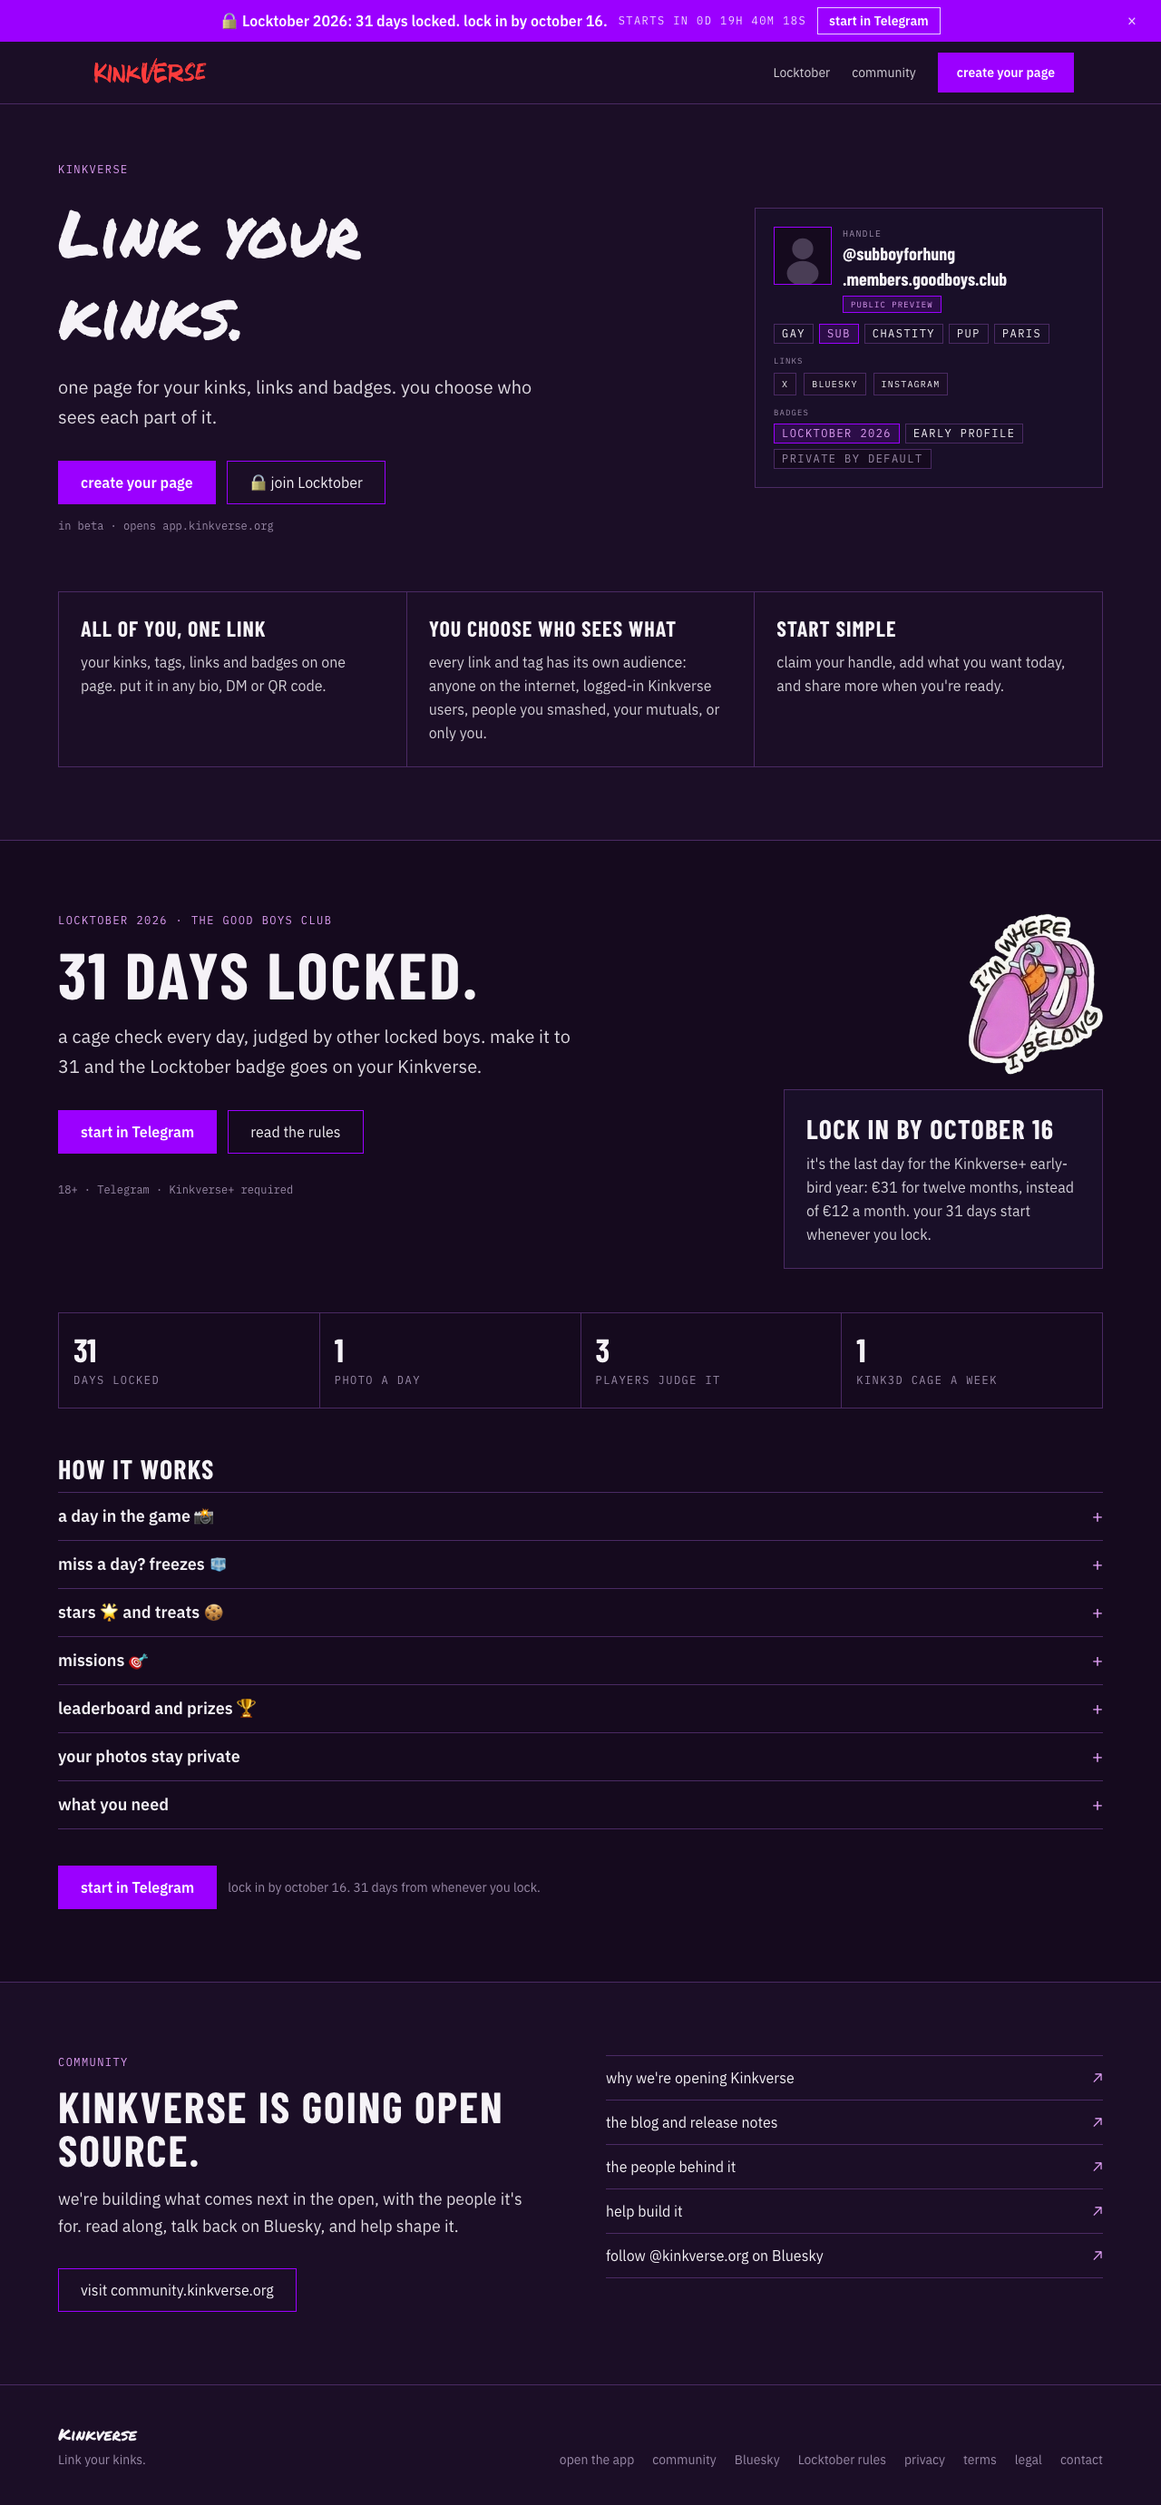
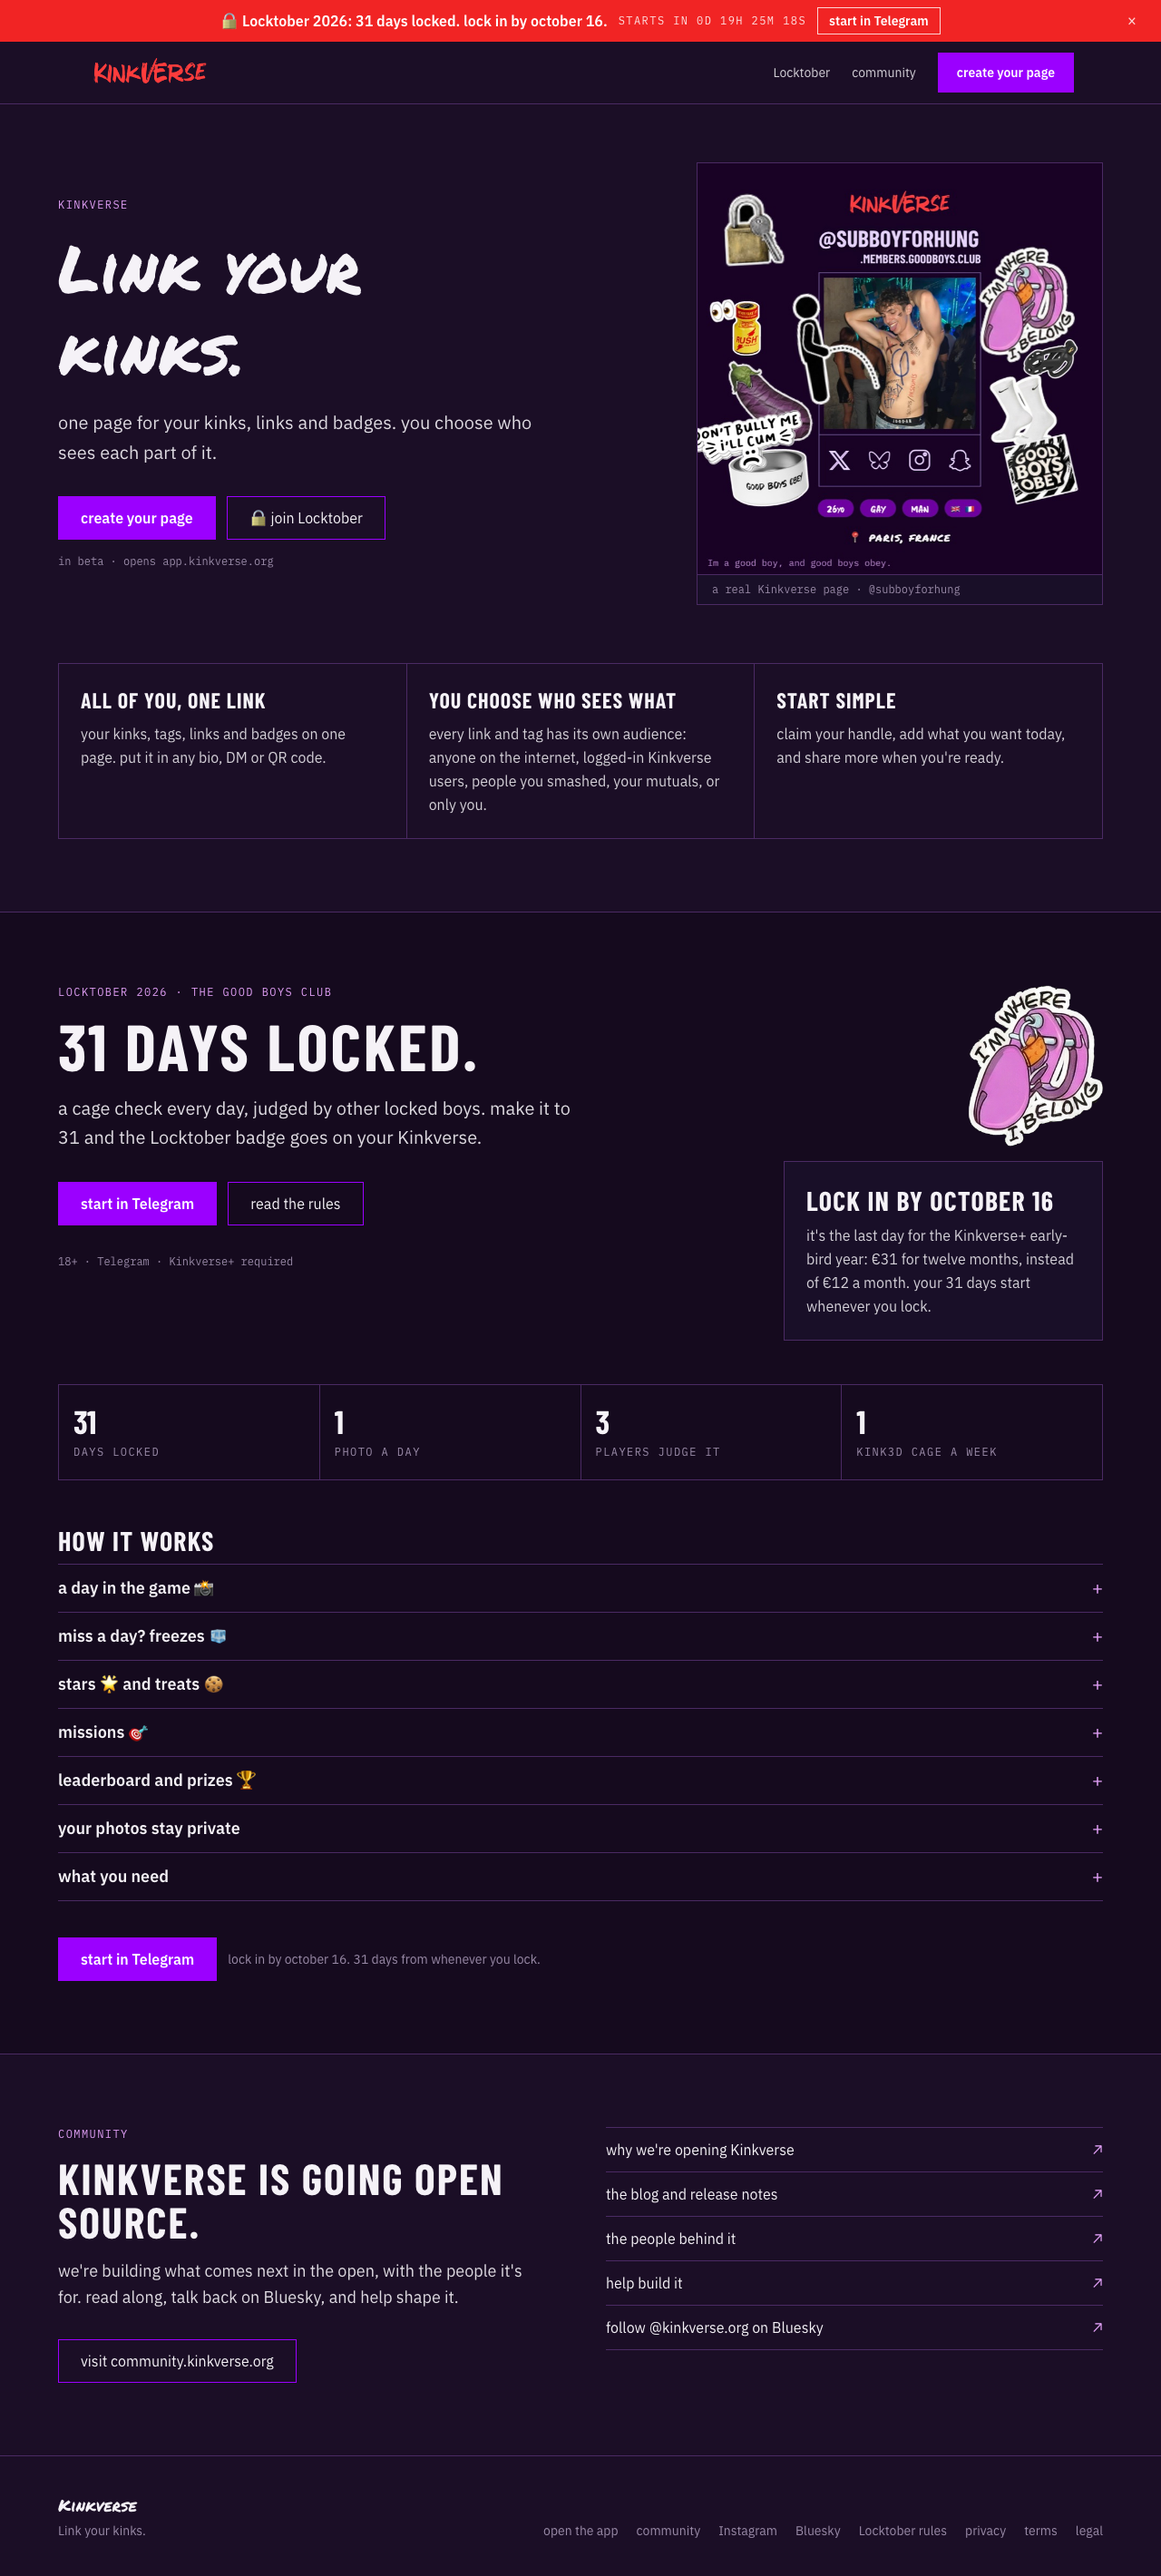
feat: show a real Kinkverse profile in the hero
The sample card becomes a cutout of @subboyforhung's public profile,
supplied by its owner, cropped above the kink tags and re-encoded without
metadata. It links to the live page. The screenshots are recaptured with the
red banner and the new hero.

diff --git a/src/components/HeroProfile.tsx b/src/components/HeroProfile.tsx
@@ -1,0 +1,29 @@
+import { APP_URL } from "../constants";
+
+const PROFILE_HANDLE = "subboyforhung.members.goodboys.club";
+
+/** A real, public Kinkverse profile, shown with its owner's agreement. */
+export function HeroProfile() {
+  return (
+    <a
+      href={`${APP_URL}/@${PROFILE_HANDLE}`}
+      target="_blank"
+      rel="noopener noreferrer"
+      className="focus-ring block w-full max-w-md"
+    >
+      <figure className="panel overflow-hidden">
+        <img
+          src="/hero-profile.jpg"
+          alt="the Kinkverse profile of @subboyforhung: photo, stickers, social links and tags"
+          width={749}
+          height={760}
+          className="block h-auto w-full"
+          loading="eager"
+        />
+        <figcaption className="font-mono border-t-[1.5px] border-kv-border px-4 py-2 text-xs text-kv-muted">
+          a real Kinkverse page · @{PROFILE_HANDLE.split(".")[0]}
+        </figcaption>
+      </figure>
+    </a>
+  );
+}

diff --git a/src/App.tsx b/src/App.tsx
@@ -5,7 +5,7 @@ import { Footer } from "./components/Footer";
 import { Header } from "./components/Header";
 import { Locktober } from "./components/Locktober";
 import { LocktoberBanner } from "./components/LocktoberBanner";
-import { MockProfileCard } from "./components/MockProfileCard";
+import { HeroProfile } from "./components/HeroProfile";
 import { Section } from "./components/Section";
 
 // Audience names come from the app's shared vocabulary (packages/tag-visibility).
@@ -60,7 +60,7 @@ export default function App() {
               </p>
             </div>
             <div className="flex justify-center lg:justify-end">
-              <MockProfileCard />
+              <HeroProfile />
             </div>
           </div>
         </Section>
